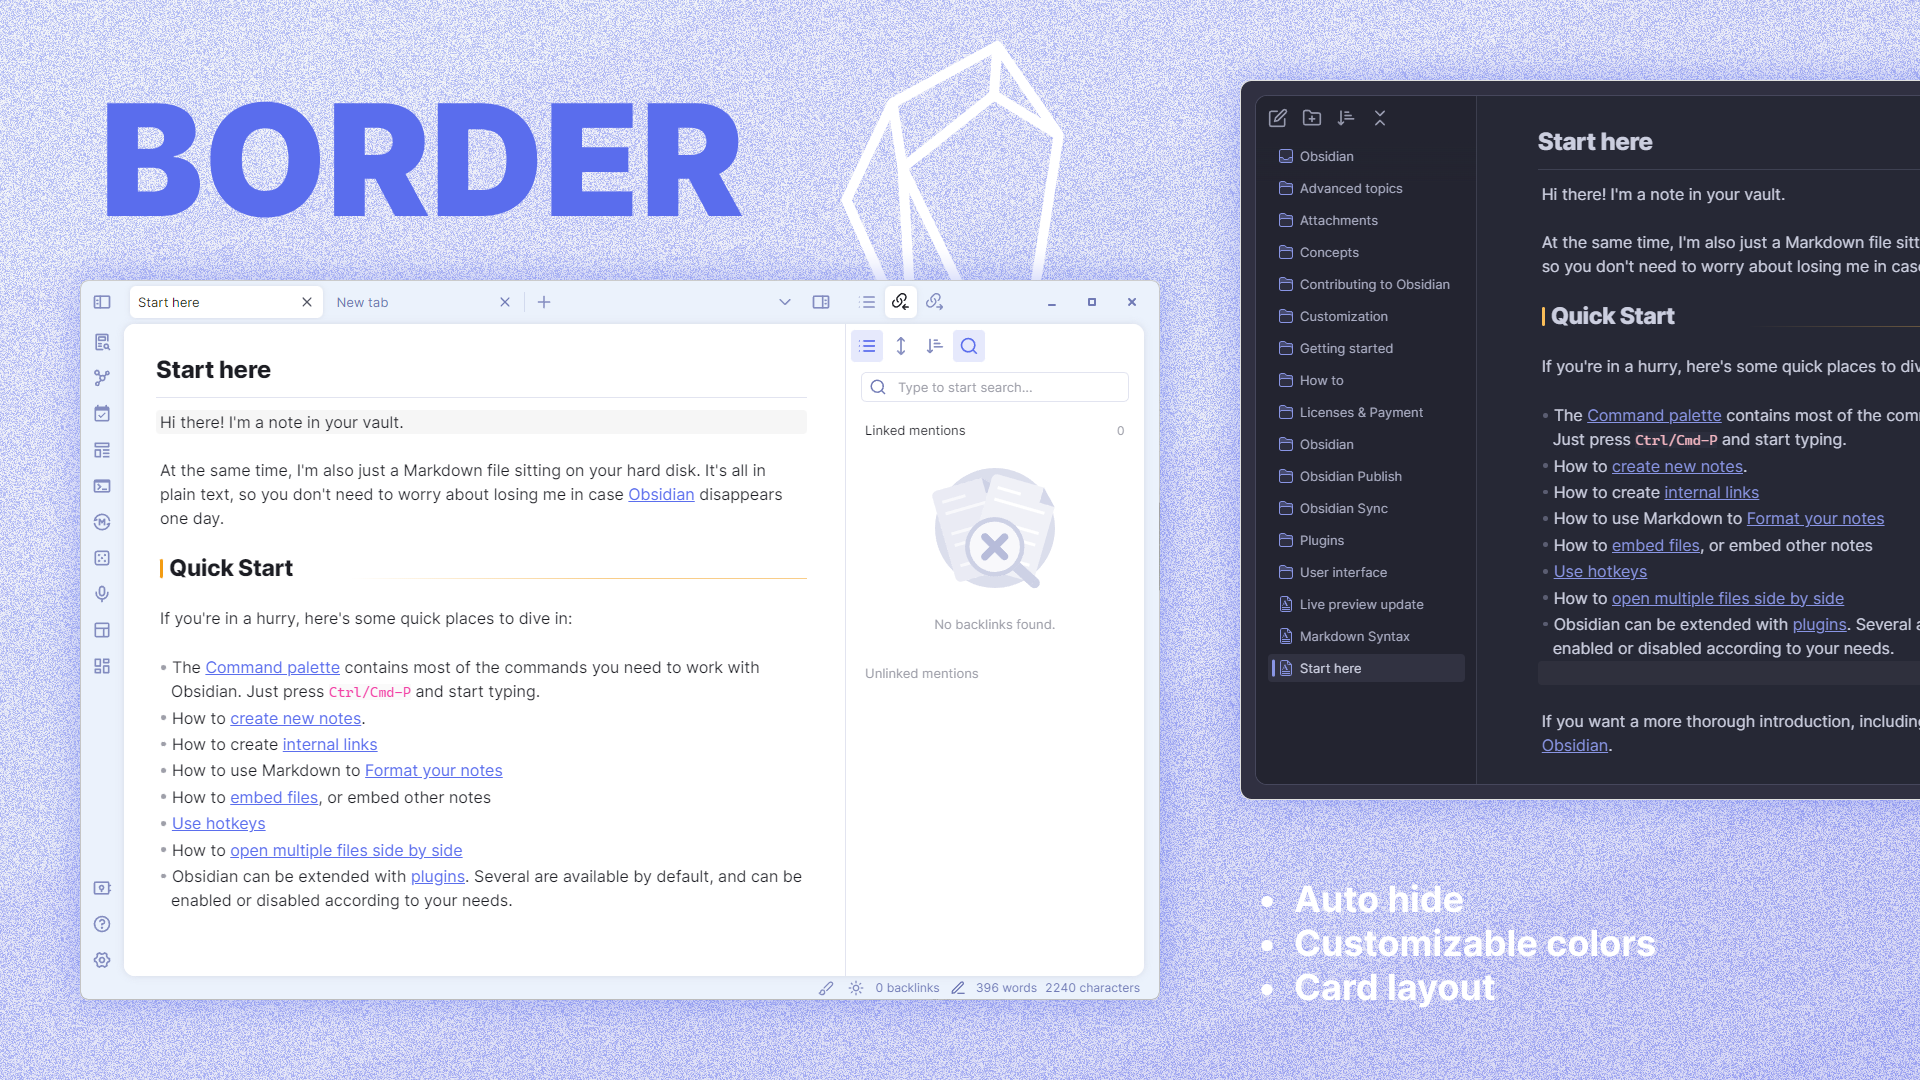
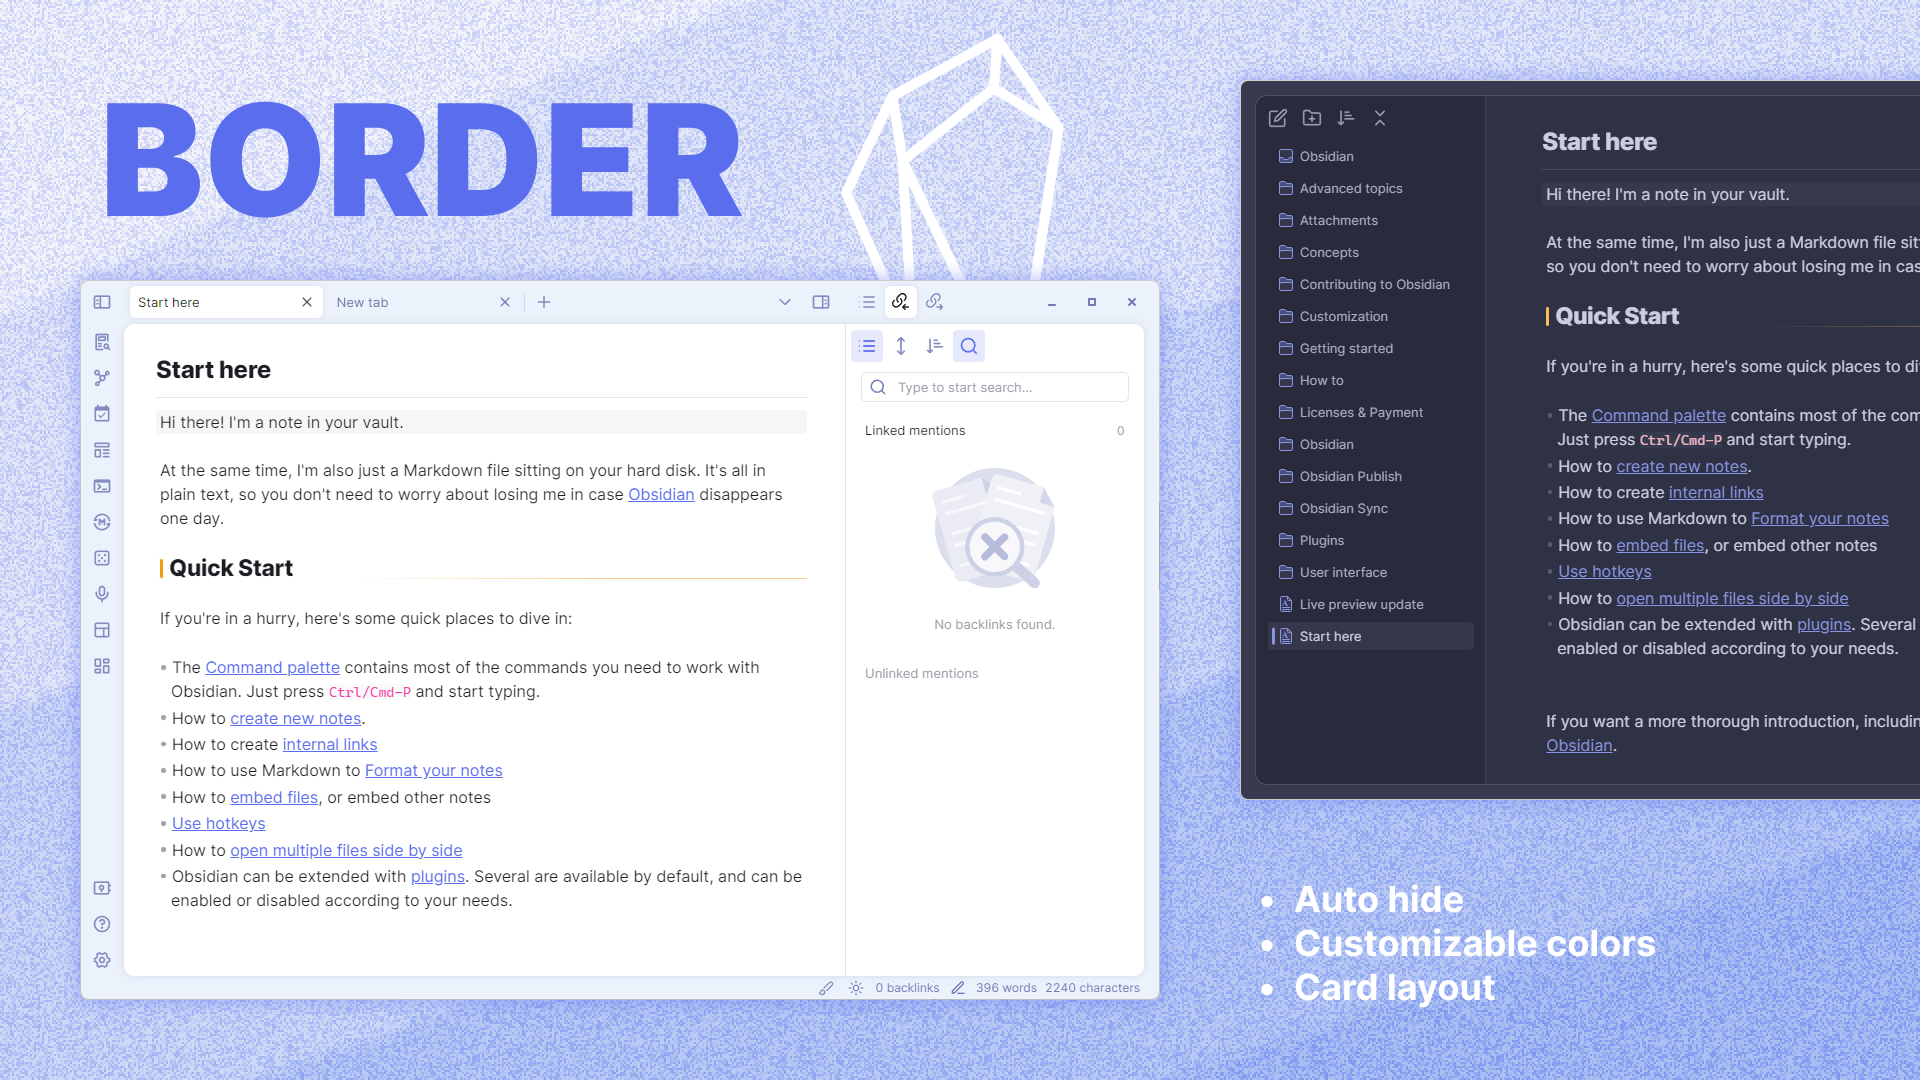
update

diff --git a/theme.css b/theme.css
@@ -4,9 +4,9 @@ name: Border
 id: Border
 settings:
     - 
-        id: Interface
-        title: Interface
-        title.zh: 界面
+        id: Components
+        title: Components
+        title.zh: 组件
         type: heading
         collapsed: true
         level: 2
@@ -102,9 +102,9 @@ settings:
         title.zh: 隐藏滚动条
         type: class-toggle
     - 
-        id: Color
-        title: Color
-        title.zh: 色彩
+        id: Appearance
+        title: Appearance
+        title.zh: 外观
         type: heading
         collapsed: true
         level: 2
@@ -128,6 +128,8 @@ settings:
         allowEmpty: false
         default: theme-dark-background-default
         options:
+            -   label: brighter
+                value: theme-dark-background-brighter
             -   label: default
                 value: theme-dark-background-default
             -   label: darker
@@ -207,6 +209,15 @@ settings:
             -   label: customize
                 value: mod-root-split-background-customize
     - 
+		id: background-mod-root-split
+		title: Customize middle sidebar background color
+        title.zh: 自定义 中间栏 背景色
+		type: variable-themed-color
+		opacity: true
+		format: hex
+		default-light: '#'
+		default-dark: '#'
+    - 
         id: file-icon-color-select
         title: file and folder icon color in explorer
         title.zh: 文件管理器前置图标色
@@ -224,15 +235,6 @@ settings:
 		id: file-icon-color
 		title: Customize file and folder icon color in explorer
         title.zh: 自定义 文件管理器前置图标色
-		type: variable-themed-color
-		opacity: true
-		format: hex
-		default-light: '#'
-		default-dark: '#'
-    - 
-		id: background-mod-root-split
-		title: Customize middle sidebar background color
-        title.zh: 自定义 中间栏 背景色
 		type: variable-themed-color
 		opacity: true
 		format: hex
@@ -258,6 +260,29 @@ settings:
 		format: hex
 		default-light: '#'
 		default-dark: '#'
+    - 
+        id: Shadow-customize
+        title: customize shadow
+        title.zh: 自定义阴影
+        type: heading
+        collapsed: true
+        level: 3
+    - 
+        id: card-shadow-light
+        title: Custom card shadow in light mode
+        title.zh: 自定义 亮色模式下的卡片阴影
+        description: Input your box-shadow value here
+        description.zh: 在这里输入你的 box-shadow 值
+        type: variable-text
+        default: 0px 0px 8px hsla(var(--accent-h), 18%, 80%, 0.4), 0px 0px 6px hsla(var(--accent-h), 18%, 80%, 0.2)
+    - 
+        id: card-shadow-dark
+        title: Custom card shadow in dark mode
+        title.zh: 自定义 暗色模式下的卡片阴影
+        description: Input your box-shadow value here
+        description.zh: 在这里输入你的 box-shadow 值
+        type: variable-text
+        default: 0px 0px 0px 1px var(--divider-color)
     - 
         id: Editor
         title: Editor
@@ -1108,6 +1133,7 @@ body {
     --interactive-hover: hsl(calc(var(--accent-h)),
             calc(var(--accent-s) / 2),
             calc(100% - (100% - var(--accent-l)) / 3.6));
+    --background-modifier-hover: hsla(var(--accent-h), 6%, 64%, 0.225);
 }
 
 .theme-dark {
@@ -1228,6 +1254,28 @@ body {
     --interactive-hover: hsl(calc(var(--accent-h) + 8),
             calc(var(--accent-s) / 7),
             calc(var(--accent-l) / 2.4));
+}
+
+
+.theme-dark.theme-dark-background-brighter {
+    --background-primary: hsl(var(--accent-h), calc(var(--accent-s) / 4.2), calc(1.25*var(--accent-l) / 3.5));
+    --background-primary-alt: hsl(var(--accent-h), calc(var(--accent-s) / 4.2), calc(1.25*var(--accent-l) / 3.1));
+    --background-secondary: hsl(calc(var(--accent-h) + 4), calc(var(--accent-s) / 4.2), calc(1.25*var(--accent-l) / 4));
+    --background-secondary-alt: hsl(calc(var(--accent-h) + 8),
+            calc(var(--accent-s) / 4.2),
+            calc(1.25*var(--accent-l) / 3.7));
+    --background-tertiary: hsl(calc(var(--accent-h) + 8),
+            calc(var(--accent-s) / 4.8),
+            calc(1.25*var(--accent-l) / 3));
+    --workspace-background-translucent: hsla(calc(var(--accent-h) + 8),
+            calc(var(--accent-s) / 4.8),
+            calc(1.25*var(--accent-l) / 3), 0.6);
+    --interactive-normal: hsl(calc(var(--accent-h) + 8),
+            calc(var(--accent-s) / 5.6),
+            calc(1.25*var(--accent-l) / 2.4));
+    --interactive-hover: hsl(calc(var(--accent-h) + 8),
+            calc(var(--accent-s) / 5.6),
+            calc(1.25*var(--accent-l) / 2));
 }
 
 
@@ -1535,16 +1583,26 @@ body:not(.is-mobile) .horizontal-main-container {
     overflow: visible;
 }
 
+body {
+    --card-shadow-light: var(0px 0px 8px hsla(var(--accent-h), 18%, 80%, 0.4), 0px 0px 6px hsla(var(--accent-h), 18%, 80%, 0.2));
+    --card-shadow-dark: var(0px 0px 0px 1px var(--divider-color));
+}
+
+
 body:not(.is-mobile) .workspace::before {
     content: " ";
     width: calc(100% - 44px);
     height: calc(100% - 44px);
     border-radius: 11px;
     background-color: var(--background-primary);
-    box-shadow: 0px 0px 8px hsla(var(--accent-h), 18%, 80%, 0.4), 0px 0px 6px hsla(var(--accent-h), 18%, 80%, 0.2);
+    box-shadow: var(--card-shadow-light, 0px 0px 8px hsla(var(--accent-h), 18%, 80%, 0.4), 0px 0px 6px hsla(var(--accent-h), 18%, 80%, 0.2));
     position: absolute;
     bottom: 0px;
     right: 0px;
+}
+
+body:not(.is-mobile).theme-dark .workspace::before {
+    box-shadow: var(--card-shadow-dark, 0px 0px 0px 1px var(--divider-color));
 }
 
 body:not(.is-mobile).is-popout-window .workspace::before {
@@ -1552,9 +1610,6 @@ body:not(.is-mobile).is-popout-window .workspace::before {
     height: calc(100% - 44px);
 }
 
-body:not(.is-mobile).theme-dark .workspace::before {
-    box-shadow: 0px 0px 0px 1px var(--divider-color);
-}
 
 .workspace-tab-header-container,
 .workspace-tabs.mod-top .workspace-tab-header-container,
@@ -2000,11 +2055,11 @@ body:not(.is-mobile).card-layout-open .workspace-split.mod-vertical {
 
 body:not(.is-mobile).card-layout-open .workspace-tab-container {
     border-radius: 12px !important;
-    box-shadow: 0px 0px 8px hsla(var(--accent-h), 18%, 80%, 0.4), 0px 0px 6px hsla(var(--accent-h), 18%, 80%, 0.2);
+    box-shadow: var(--card-shadow-light, 0px 0px 8px hsla(var(--accent-h), 18%, 80%, 0.4), 0px 0px 6px hsla(var(--accent-h), 18%, 80%, 0.2));
 }
 
 body:not(.is-mobile).theme-dark.card-layout-open .workspace-tab-container {
-    box-shadow: 0px 0px 0px 1px var(--divider-color);
+    box-shadow: var(--card-shadow-dark, 0px 0px 0px 1px var(--divider-color));
 }
 
 body:not(.is-mobile).card-layout-open .workspace-tabs,
@@ -2705,11 +2760,11 @@ input.prompt-input {
 
 /*====== 动效 ======*/
 .graph-controls:not(.is-close),
-body:not(.is-phone) .popover,
+body:not(.is-phone) .popover:not(.svelte-1xg3ic1),
 body:not(.is-phone) .menu:not(.mk-style-menu),
 body:not(.is-phone) .prompt,
 body:not(.is-phone) .modal:not(.mod-settings),
-body:not(.is-phone) .suggestion-container {
+body:not(.is-phone) .suggestion-container:not(.svelte-1xg3ic1) {
     -webkit-animation: scale-up 200ms cubic-bezier(0.175, 0.885, 0.320, 1.125) both;
     animation: scale-up 200ms cubic-bezier(0.175, 0.885, 0.320, 1.125) both;
 }
@@ -2843,6 +2898,11 @@ body.canvas-card-menu-right .canvas-card-menu {
 
 .canvas-controls button {
     border-bottom: 1px solid var(--divider-color);
+}
+
+/*search*/
+.nav-header~.search-input-container {
+    width: calc(100% - var(--size-4-6));
 }
 
 /* graph*/
